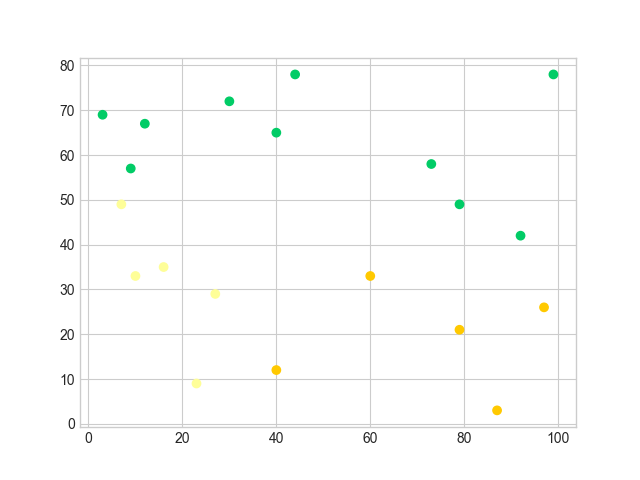
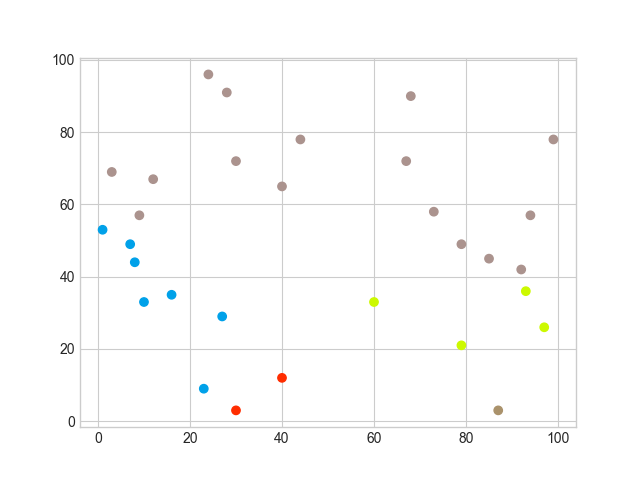
Added helper variables for kmeans main and removed unnecessary code

diff --git a/k-means/kmeans.c b/k-means/kmeans.c
@@ -396,6 +396,9 @@ double getDistanceBetween(double *elementIndexA, double *elementIndexB, int dim)
 double getMeanOfSet(int *dataElements, int numberOfElements, int indexOfDim, int dim, double *data) {
     double totalMean = 0.0;
     
+    if(numberOfElements == 0)
+        return 0;
+    
     // For every data point passed, get the sum(currentDimension)
     for (int i = 0; i < numberOfElements; i++) {
         int elementIndex = dataElements[i]; // Gets each element index
@@ -438,37 +441,4 @@ double getMean(double *data, int ndata, int indexOfDim, int dim, double bdry[2])
     return (total / ndata);
 }
 
-
-double getVariance(double *data, int ndata, int mean, int indexOfDim, int dim) {
-    
-    double total = 0;
-    
-    for (int i = 0; i < ndata; i++) {
-        total += (data[(i * dim) + indexOfDim] - mean) * (data[(i * dim) + indexOfDim] - mean);
-    }
-    
-    return (total / ndata);
-}
-
-
-/*
- 
- Swap takes in the number of dimensions, an array and the
- index's of the elements to be swaped.
- 
- ex: swap(3, data, 1, 3); // Elements 1, and 3 are swaped.
- 
- */
-void swap(int dim, double *a, int x, int y) {
-    
-    double tmp;
-    x *= dim; // Setting x and y index to the correct index to swap
-    y *= dim;
-    
-    for (int i = 0; i < dim; i++) {
-        tmp = a[x+i];
-        a[x+i] = a[y+i];
-        a[y+i] = tmp;
-    }
-}
 

diff --git a/k-means/main.c b/k-means/main.c
@@ -13,8 +13,8 @@
 #include "debug.h"
 
 #define dim     2  // Number of Dimensions
-#define ndata   10  // Number of Datapoints
-#define k       3  // Number of Clusters
+#define ndata   20  // Number of Datapoints
+#define k       5  // Number of Clusters
 
 // To visualize results
 void writeResults(double *data, int *cluster_assign);
@@ -26,6 +26,9 @@ void writeResults(double *data, int *cluster_assign);
 // Definition: An Element is a set of coordinates (x, y, z, ..., n) of size dim.
 
 int main(int argc, const char * argv[]) {
+    
+    int maxIterations = 4;
+    double minMeanChange = 1.5;
     
     int totalCoordinates = ndata*dim; // Total number of coordinates (x, y, z, ..., n)
     double data[ndata * dim]; // Number of data points
@@ -59,9 +62,7 @@ int main(int argc, const char * argv[]) {
     
     printData(data, totalCoordinates, dim);
     
-    kmeans(dim, ndata, totalCoordinates, k, data, cluster_size, cluster_start, cluster_radius, cluster_centroid, cluster_assign);
-    
-    
+    kmeans(dim, ndata, totalCoordinates, k, data, cluster_size, cluster_start, cluster_radius, cluster_centroid, cluster_assign, maxIterations, minMeanChange);
     
     // writes results to file to be visualized
     writeResults(data, cluster_assign);

diff --git a/k-means/kmeans.h b/k-means/kmeans.h
@@ -40,11 +40,5 @@ double getMeanOfSet(int *dataElements, int numberOfElements, int indexOfDim, int
 // Returns the mean of the data set passed in.
 double getMean(double *data, int ndata, int indexOfDim, int dim, double bdry[2]);
 
-// Return the variance of the data set passed in.
-double getVariance(double *data, int ndata, int mean,  int indexOfDim, int dim);
-
-// Swap takes in the number of dimensions, an array and the index's of the elements to be swaped.
-void swap(int dim, double *a, int i, int j);
-
 
 #endif
